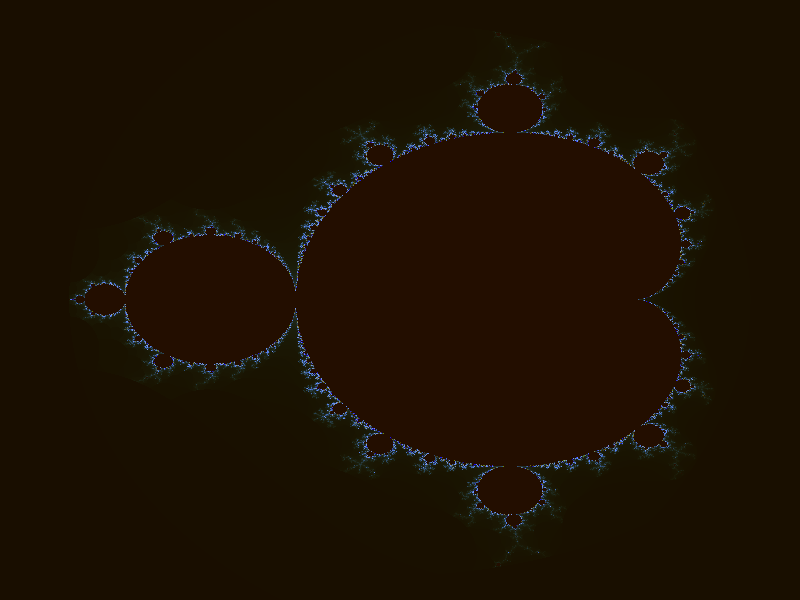
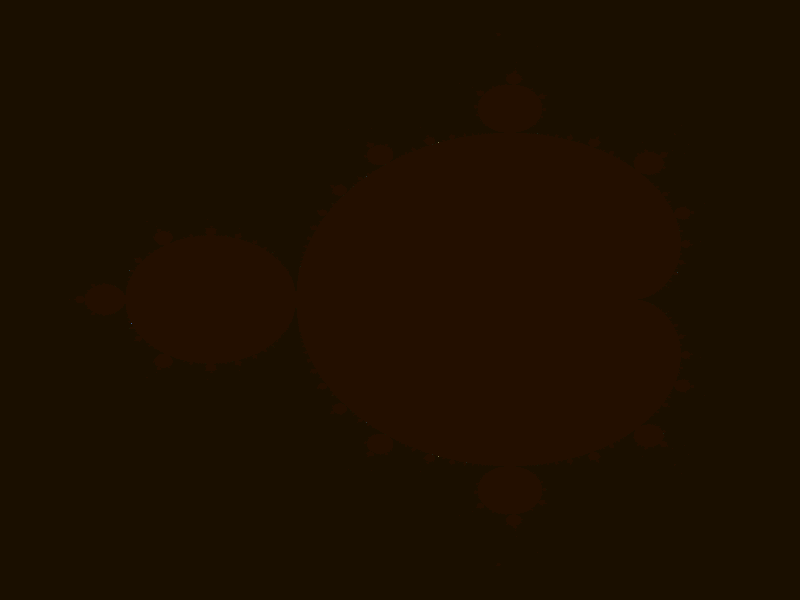
Optimize GPU-Memory ReadBack

diff --git a/src/ComputeShader.cpp b/src/ComputeShader.cpp
@@ -1,5 +1,6 @@
 #include "ComputeShader.h"
 #include <iostream>
+#include "Benchmarker.h"
 
 
 ComputeShader::ComputeShader(int width, int height)
@@ -9,7 +10,7 @@ ComputeShader::ComputeShader(int width, int height)
     FindPhysicalDevice();
     CreateDevice();
     inputBuffer.Create(physicalDevice, device, sizeof(int) * 2);
-    outputBuffer.Create(physicalDevice, device, sizeof(float) * 4 * m_Width * m_Height);
+    outputBuffer.Create(physicalDevice, device, sizeof(int) * m_Width * m_Height);
     CreateDescriptorSetLayout();
     CreateDescriptorSet();
     CreateComputePipeline();
@@ -290,13 +291,22 @@ uint32_t ComputeShader::GetComputeQueueFamilyIndex() {
 }
 
 void ComputeShader::Run(Image& image) {
+    Benchmarker::Start("Data Upload");
     inputBuffer.UploadData(commandPool, queue);
+    Benchmarker::End("Data Upload");
+
+    Benchmarker::Start("Compute");
     VkSubmitInfo submitInfo = {};
     submitInfo.sType = VK_STRUCTURE_TYPE_SUBMIT_INFO;
     submitInfo.commandBufferCount = 1;
     submitInfo.pCommandBuffers = &commandBuffer;
     vkQueueSubmit(queue, 1, &submitInfo, NULL);
+    vkQueueWaitIdle(queue);
+    Benchmarker::End("Compute");
+
+    Benchmarker::Start("Read");
     outputBuffer.ReadData(image, commandPool, queue);
+    Benchmarker::End("Read");
 }
 
 ComputeShader::~ComputeShader() {

diff --git a/src/OutputBuffer.cpp b/src/OutputBuffer.cpp
@@ -2,7 +2,6 @@
 #include <iostream>
 #include "VulkanUtils.h"
 
-
 void OutputBuffer::Create(VkPhysicalDevice physicalDevice, VkDevice device, VkDeviceSize size)
 {
     Size = size;
@@ -17,11 +16,9 @@ void OutputBuffer::ReadData(Image& image, VkCommandPool pool, VkQueue queue)
     CopyBuffer(m_Device, pool, queue, Buffer, m_StagingBuffer, Size);
     void* mappedMemory = NULL;
     vkMapMemory(m_Device, m_StagingMemory, 0, Size, 0, &mappedMemory);
-    float* pmappedMemory = (float*)mappedMemory;
+    uint32_t* pmappedMemory = (uint32_t*)mappedMemory;
     unsigned char* dst = image.GetData();
-    for (int i = 0; i < image.GetWidth() * image.GetHeight() * 4; i++) {
-        dst[i] = (unsigned char)(pmappedMemory[i] * 255.0f);
-    }
+    memcpy(dst, pmappedMemory, image.GetWidth() * image.GetHeight() * 4);
     vkUnmapMemory(m_Device, m_StagingMemory);
 }
 

diff --git a/src/main.cpp b/src/main.cpp
@@ -3,7 +3,6 @@
 #include "Lambertian.h"
 #include "Utils.h"
 #include "Dielectric.h"
-#include "Benchmarker.h"
 
 void DrawRandomScenes();
 
@@ -57,9 +56,7 @@ void DrawRandomScenes() {
             }
         }
 
-        Benchmarker::Start("GPU Bench");
 		raytracer.DrawGPU();
-        Benchmarker::End("GPU Bench");
 		raytracer.Canvas.Save("output.png");
 	}
 }
